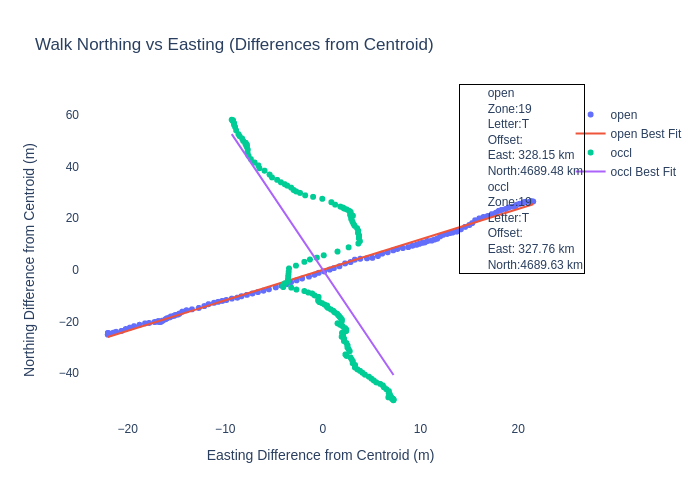
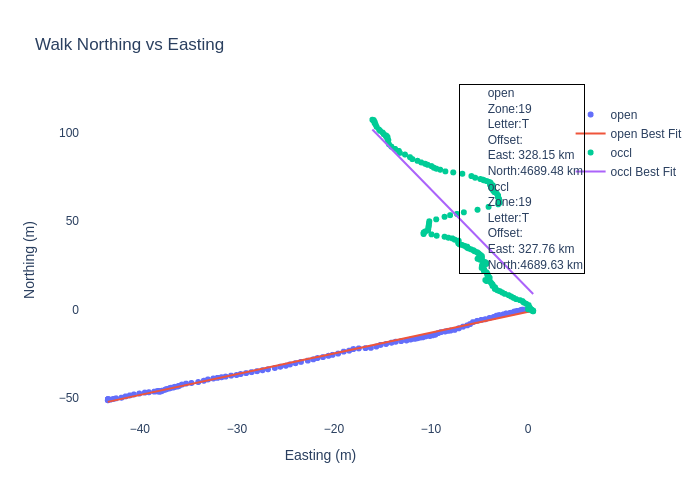
Fix walking plot

diff --git a/gnss/analysis/dataUtil.py b/gnss/analysis/dataUtil.py
@@ -27,7 +27,7 @@ WALK_RTK = f"walking{RTK}"
 
 # Replace with True if we want to first convert the bag file to csv.
 CONVERT_ROSBAG_TO_CSV = False
-scenario = WALK_RTK
+scenario = STATIONARY_RTK
 
 # Get the bag and csv filepath.
 if scenario == CHICAGO or scenario == WALK_RTK:
@@ -119,7 +119,7 @@ def point_to_line_dist(point, slope, intercept):
     # mx -y + b = 0
     # Ax + (-B) y + C =0
     # A = m, B = -1, and C = intercept (b)
-    dist = abs(slope * px - py + intercept) / (np.sqrt(slope**2 + 1))
+    dist = abs(slope * -px + py - intercept) / (np.sqrt(slope**2 + 1))
     return dist
 
 
@@ -205,7 +205,7 @@ def plotNorthingEasting(csv_filepaths: list, plot_filepath: str, scenario: str, 
         if isLineOfBestFit:
             # Compute and overlay line of best fit.
             m, b = np.polyfit(df['easting_normalized'], df['northing_normalized'], 1)
-            print(np.polyfit(df['easting_normalized'], df['northing_normalized'], 1))
+        
             # Plot.
             fig.add_trace(go.Scatter(
                 x=df['easting_normalized'], 
